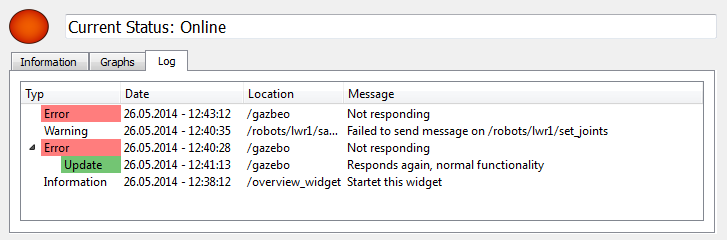
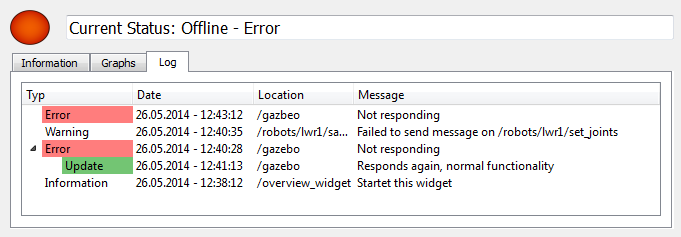
Letzte Änderungen und Korrekturen vor allem an der GUI

Changed region(s): [[0.0, 0.0295, 0.9868, 0.9747]]

diff --git a/pflichtenheft/titelseite.tex b/pflichtenheft/titelseite.tex
@@ -50,6 +50,6 @@ Auftragnehmer\\
 
 \end{center}
 
-\vfill Karlsruhe, 27.05.2014
+\vfill Karlsruhe, 04.06.2014
 
 \end{titlepage}
